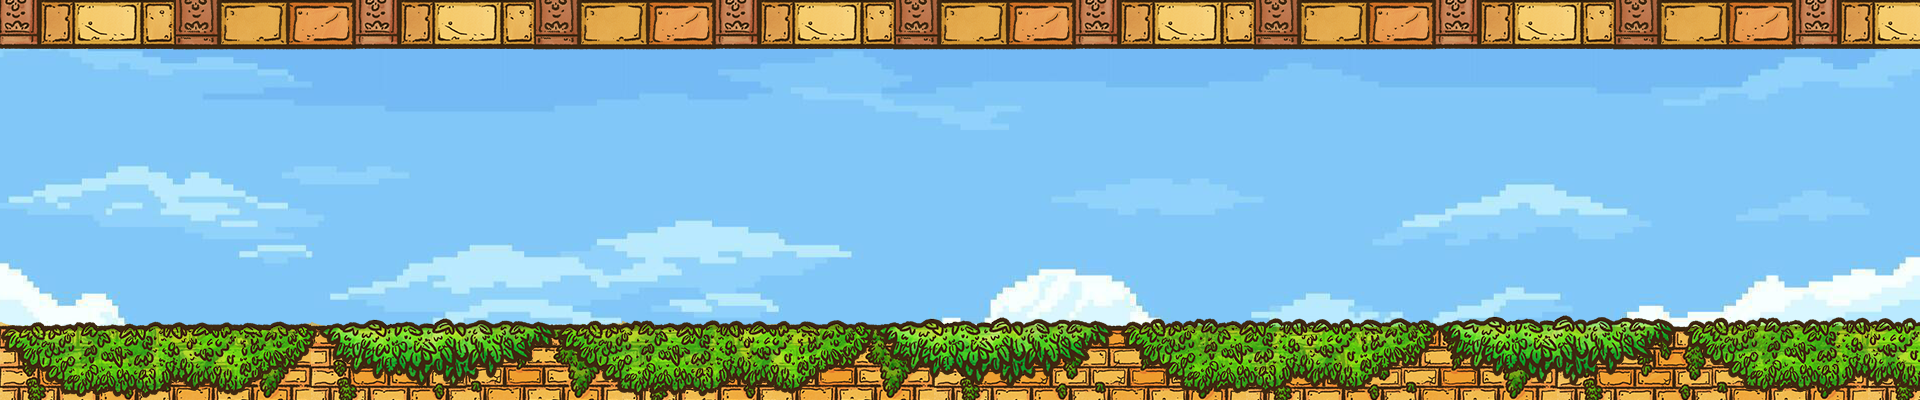
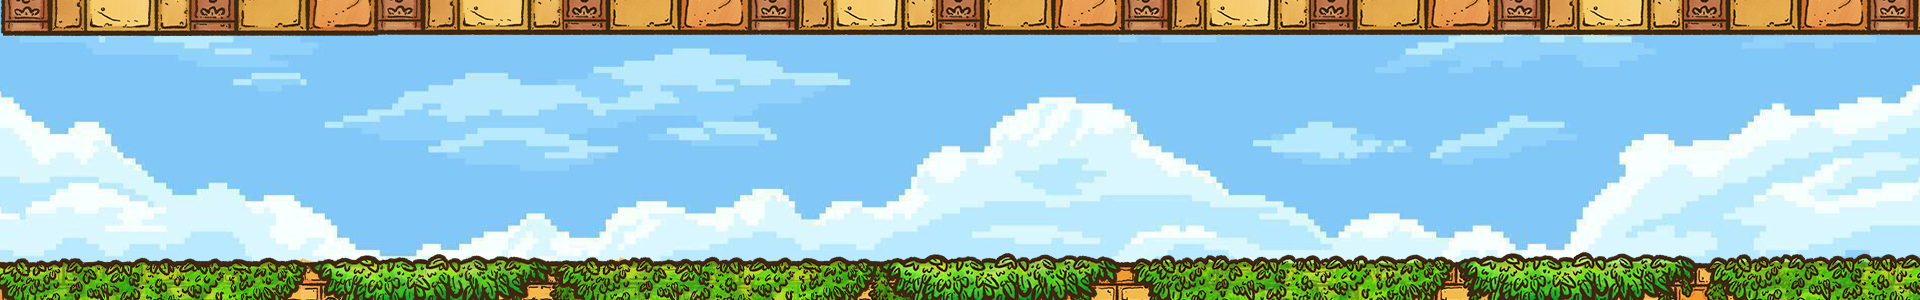
Fixed mobile background image

diff --git a/styles/controls.css b/styles/controls.css
@@ -15,7 +15,7 @@
 
 @media screen and (max-width: 650px) {
     .controls{
-        height: 400px;
+        height: 300px;
         background-image: url(./../assets/images/controls-bg-mb.png);
     }
     .controls h2{
@@ -28,6 +28,6 @@
         padding-top: 25px;
     }
     .controls > div{
-        padding-top: 100px;
+        padding-top: 40px;
     }
 }
